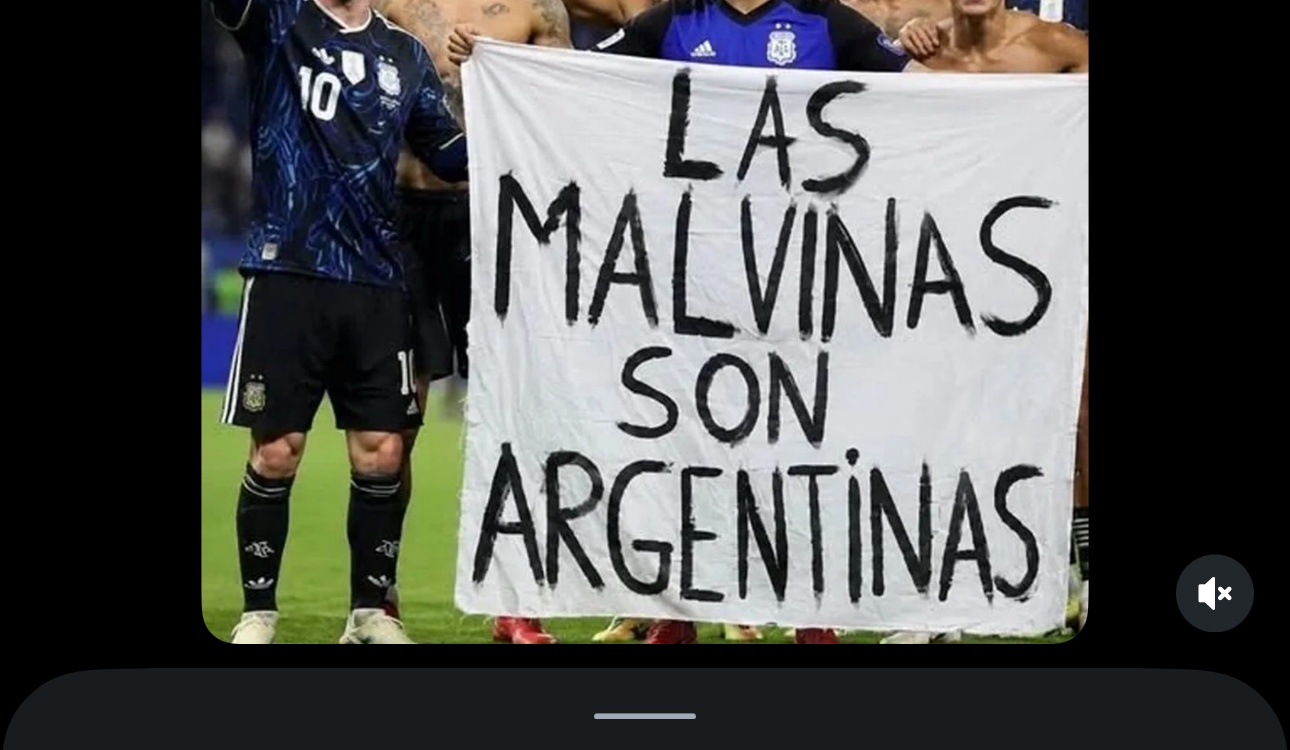
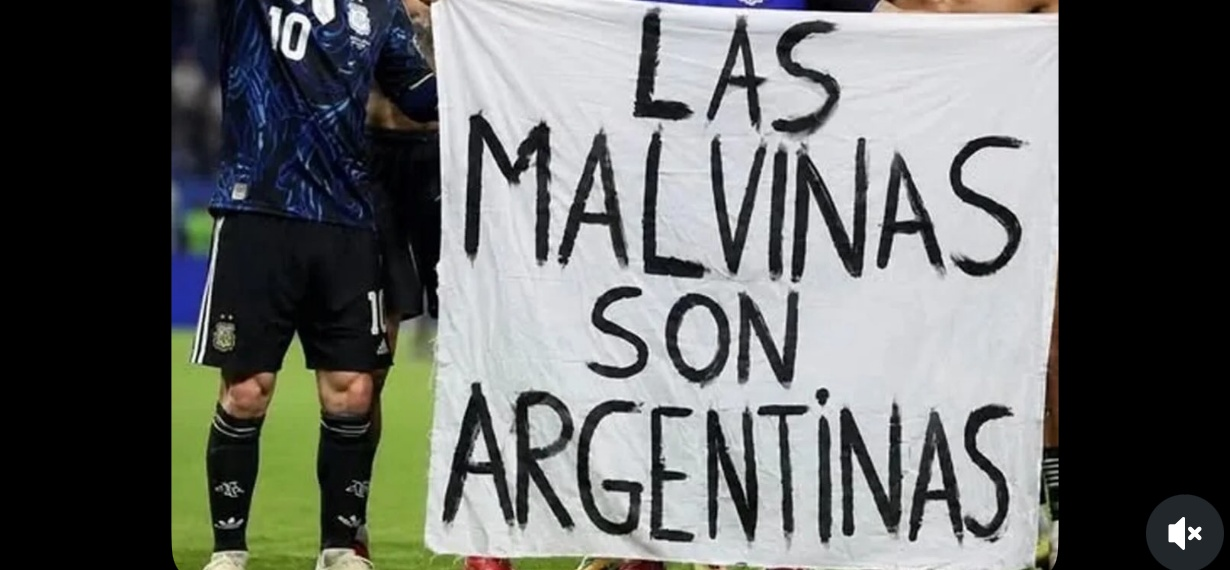
fix: foto compuesta flyer Zamora/Milei — Wikipedia API + mejor crop Malvinas
- Usar Wikipedia REST API como fuente primaria para fotos de Zamora y Milei
- Mejorar crop del asset malvinas_copa2021.jpg (evitar UI de Instagram)
- Saltar WP post si ya publicado (evitar duplicados) y solo regenerar flyer+redes

Claude-Session: https://claude.ai/code/session_015MT7xSQ4ZEhoDVE78YHaLp

diff --git a/_publicar_zamora_malvinas.py b/_publicar_zamora_malvinas.py
@@ -98,35 +98,48 @@ consenso transversal por encima de las diferencias partidarias.</p>
 
 # ── FUENTES DE IMÁGENES ───────────────────────────────────────────────────────
 
-# Imagen de Zamora (busca en fuentes locales y nacionales)
-FUENTES_ZAMORA = [
-    "https://www.elliberal.com.ar/nota/politica/",  # buscará og:image de artículos recientes
-    "https://www.nuevodiarioweb.com.ar/nota/politica/",
+# Asset local de la foto de jugadores con bandera Malvinas
+MALVINAS_LOCAL_PATH = "assets/malvinas_copa2021.jpg"
+
+# Páginas de Wikipedia para obtener fotos de los políticos (fuente primaria, estable)
+WIKI_ZAMORA = "Gerardo_Zamora"       # es.wikipedia.org
+WIKI_MILEI  = "Javier_Milei"        # es.wikipedia.org
+
+# Fuentes de respaldo si Wikipedia falla
+FUENTES_ZAMORA_FALLBACK = [
     "https://www.sde.gob.ar/noticias/",
-    "https://www.infobae.com/santiago-del-estero/",
-]
-FUENTES_ZAMORA_DIRECTAS = [
     "https://www.elliberal.com.ar",
     "https://www.nuevodiarioweb.com.ar",
 ]
-
-# Imagen de Milei (busca en fuentes nacionales)
-FUENTES_MILEI = [
+FUENTES_MILEI_FALLBACK = [
     "https://www.infobae.com/politica/",
     "https://www.tn.com.ar/politica/",
     "https://www.lanacion.com.ar/politica/",
-    "https://www.clarin.com/politica/",
-]
-
-# Imagen Malvinas (foto jugadores con bandera - asset local o búsqueda)
-MALVINAS_LOCAL_PATH = "assets/malvinas_copa2021.jpg"
-FUENTES_MALVINAS = [
-    "https://www.tycsports.com/futbol/seleccion-argentina/copa-america-2021-argentina-campeona-festejo-las-malvinas-son-argentinas-id383459.html",
-    "https://www.tn.com.ar/deportes/",
 ]
 
 
 # ── BÚSQUEDA DE IMÁGENES ──────────────────────────────────────────────────────
+
+def _get_wikipedia_image(page_name: str, lang: str = "es") -> str | None:
+    """Obtiene la imagen principal de un artículo de Wikipedia vía REST API."""
+    try:
+        url = f"https://{lang}.wikipedia.org/api/rest_v1/page/summary/{page_name}"
+        resp = requests.get(
+            url,
+            headers={"User-Agent": "AhoraNoticias/1.0 (ahoranoticias.com.ar)"},
+            timeout=12,
+        )
+        if resp.status_code == 200:
+            data = resp.json()
+            # Preferir originalimage (alta resolución) sobre thumbnail
+            img = (data.get("originalimage") or data.get("thumbnail") or {}).get("source", "")
+            if img:
+                logger.info(f"  Wikipedia {page_name}: {img[:80]}")
+                return img
+    except Exception as e:
+        logger.debug(f"Wikipedia API error ({page_name}): {e}")
+    return None
+
 
 def _buscar_og_image(url: str) -> str | None:
     try:
@@ -145,28 +158,18 @@ def _buscar_og_image(url: str) -> str | None:
     return None
 
 
-def _buscar_imagen_persona(keyword: str, fuentes: list[str]) -> str | None:
-    """Busca la primera imagen válida de la persona en las fuentes dadas."""
+def _buscar_en_noticias(keyword: str, fuentes: list[str]) -> str | None:
+    """Busca imagen de una persona en portadas de sitios de noticias."""
     for base_url in fuentes:
         try:
-            resp = requests.get(base_url, headers=HEADERS, timeout=10)
-            if resp.status_code != 200:
-                continue
-            soup = BeautifulSoup(resp.text, "html.parser")
-            # Buscar links de artículos que mencionen la keyword
-            links = soup.find_all("a", href=True)
-            for link in links:
-                href = link["href"]
-                text = link.get_text(strip=True).lower()
-                if keyword.lower() in text or keyword.lower() in href.lower():
-                    if not href.startswith("http"):
-                        from urllib.parse import urlparse
-                        parsed = urlparse(base_url)
-                        href = f"{parsed.scheme}://{parsed.netloc}{href}"
-                    img = _buscar_og_image(href)
-                    if img:
-                        logger.info(f"  Imagen {keyword}: {img[:80]}")
-                        return img
+            # Intento 1: og:image de la portada (suele ser la nota más reciente)
+            img = _buscar_og_image(base_url)
+            if img and keyword.lower() not in img.lower():
+                # La portada tiene imagen pero no es del keyword — intentar artículos
+                pass
+            if img:
+                logger.info(f"  Portada {base_url}: {img[:80]}")
+                return img
         except Exception as e:
             logger.debug(f"Búsqueda {keyword} en {base_url}: {e}")
     return None
@@ -434,37 +437,27 @@ def _generar_captions_gemini(wp_link: str) -> dict:
 def main():
     database.init_db()
 
-    if database.is_published(URL_CANONICA):
-        logger.warning("Esta nota ya fue publicada. Abortando.")
-        return
-
     logger.info("=== Publicando: Zamora apoya a Milei en Malvinas ===")
 
-    # ── BUSCAR IMÁGENES ──────────────────────────────────────────────────────
-    logger.info("Buscando imagen de Zamora...")
-    img_zamora_url = _buscar_imagen_persona("zamora", FUENTES_ZAMORA_DIRECTAS)
-    if not img_zamora_url:
-        for url in FUENTES_ZAMORA:
-            img_zamora_url = _buscar_og_image(url)
-            if img_zamora_url:
-                break
+    ya_publicado = database.is_published(URL_CANONICA)
+    if ya_publicado:
+        logger.info("WP ya publicado — regenerando solo flyer + redes sociales.")
 
-    logger.info("Buscando imagen de Milei...")
-    img_milei_url = None
-    for url in FUENTES_MILEI:
-        img_milei_url = _buscar_og_image(url)
-        if img_milei_url:
-            break
+    # ── BUSCAR IMÁGENES ──────────────────────────────────────────────────────
+    logger.info("Buscando imagen de Zamora (Wikipedia)...")
+    img_zamora_url = _get_wikipedia_image(WIKI_ZAMORA)
+    if not img_zamora_url:
+        logger.info("  Wikipedia falló, buscando en noticias...")
+        img_zamora_url = _buscar_en_noticias("zamora", FUENTES_ZAMORA_FALLBACK)
+
+    logger.info("Buscando imagen de Milei (Wikipedia)...")
+    img_milei_url = _get_wikipedia_image(WIKI_MILEI)
+    if not img_milei_url:
+        logger.info("  Wikipedia falló, buscando en noticias...")
+        img_milei_url = _buscar_en_noticias("milei", FUENTES_MILEI_FALLBACK)
 
     logger.info("Cargando imagen Malvinas (asset local)...")
     malvinas_pil = _fetch_pil_image(None, local_path=MALVINAS_LOCAL_PATH)
-    if not malvinas_pil:
-        logger.info("Asset local no disponible, buscando en línea...")
-        for url in FUENTES_MALVINAS:
-            mv_url = _buscar_og_image(url)
-            if mv_url:
-                malvinas_pil = _fetch_pil_image(mv_url)
-                break
 
     zamora_pil = _fetch_pil_image(img_zamora_url)
     milei_pil = _fetch_pil_image(img_milei_url)
@@ -477,64 +470,68 @@ def main():
         logger.error("Sin ninguna imagen. Abortando.")
         return
 
-    # ── PUBLICAR EN WORDPRESS ────────────────────────────────────────────────
-    # Imagen destacada de WP: primera disponible
-    wp_img_url = img_zamora_url or img_milei_url
-    wp_img_id = None
-    if wp_img_url:
+    # ── PUBLICAR EN WORDPRESS (solo si no fue publicado antes) ───────────────
+    wp_id = None
+    wp_link = "https://ahoranoticias.com.ar"
+
+    if not ya_publicado:
+        wp_img_url = img_zamora_url or img_milei_url
+        wp_img_id = None
+        if wp_img_url:
+            try:
+                result = wordpress.upload_image(image_url=wp_img_url,
+                                                filename=f"zamora-malvinas-{datetime.now().strftime('%Y%m%d')}.jpg")
+                if isinstance(result, tuple):
+                    wp_img_id, _ = result
+            except Exception as e:
+                logger.warning(f"Imagen WP fallida: {e}")
+
+        cat_ids = []
+        for cat in ["Política", "Santiago del Estero"]:
+            try:
+                cid = wordpress.get_or_create_category(cat)
+                if cid:
+                    cat_ids.append(cid)
+            except Exception:
+                pass
+
         try:
-            result = wordpress.upload_image(image_url=wp_img_url,
-                                            filename=f"zamora-malvinas-{datetime.now().strftime('%Y%m%d')}.jpg")
-            if isinstance(result, tuple):
-                wp_img_id, _ = result
+            wp_result = wordpress.create_post(
+                title=TITULO_WP,
+                body_html=CUERPO_HTML,
+                original_url=URL_CANONICA,
+                source_name=FUENTE,
+                featured_media_id=wp_img_id,
+                sticky=True,
+                categories=cat_ids,
+            )
         except Exception as e:
-            logger.warning(f"Imagen WP fallida: {e}")
+            logger.error(f"Error WP: {e}")
+            return
 
-    cat_ids = []
-    for cat in ["Política", "Santiago del Estero"]:
-        try:
-            cid = wordpress.get_or_create_category(cat)
-            if cid:
-                cat_ids.append(cid)
-        except Exception:
-            pass
+        if not wp_result:
+            logger.error("WP no devolvió respuesta.")
+            return
 
-    try:
-        wp_result = wordpress.create_post(
-            title=TITULO_WP,
-            body_html=CUERPO_HTML,
-            original_url=URL_CANONICA,
-            source_name=FUENTE,
-            featured_media_id=wp_img_id,
-            sticky=True,
-            categories=cat_ids,
-        )
-    except Exception as e:
-        logger.error(f"Error WP: {e}")
-        return
+        if isinstance(wp_result, tuple):
+            wp_id, wp_link = wp_result
+        else:
+            wp_id = wp_result.get("id") if isinstance(wp_result, dict) else None
+            wp_link = wp_result.get("link", "https://ahoranoticias.com.ar") if isinstance(wp_result, dict) else "https://ahoranoticias.com.ar"
 
-    if not wp_result:
-        logger.error("WP no devolvió respuesta.")
-        return
+        logger.info(f"✓ WordPress: ID={wp_id} | {wp_link}")
 
-    if isinstance(wp_result, tuple):
-        wp_id, wp_link = wp_result
+        if wp_id:
+            try:
+                wordpress.rotate_sticky_posts(new_post_ids=[int(wp_id)], max_sticky=4)
+                logger.info("✓ Sticky rotation OK")
+            except Exception as e:
+                logger.warning(f"Rotate sticky error: {e}")
+
+        database.mark_published(URL_CANONICA, TITULO_WP, FUENTE,
+                                wp_post_id=str(wp_id) if wp_id else None)
     else:
-        wp_id = wp_result.get("id") if isinstance(wp_result, dict) else None
-        wp_link = wp_result.get("link", "") if isinstance(wp_result, dict) else ""
-
-    logger.info(f"✓ WordPress: ID={wp_id} | {wp_link}")
-
-    # Rotar sticky
-    if wp_id:
-        try:
-            wordpress.rotate_sticky_posts(new_post_ids=[int(wp_id)], max_sticky=4)
-            logger.info("✓ Sticky rotation OK")
-        except Exception as e:
-            logger.warning(f"Rotate sticky error: {e}")
-
-    database.mark_published(URL_CANONICA, TITULO_WP, FUENTE,
-                            wp_post_id=str(wp_id) if wp_id else None)
+        logger.info("  WP saltado (ya publicado).")
 
     # ── GENERAR FLYER ────────────────────────────────────────────────────────
     flyer_path = None
